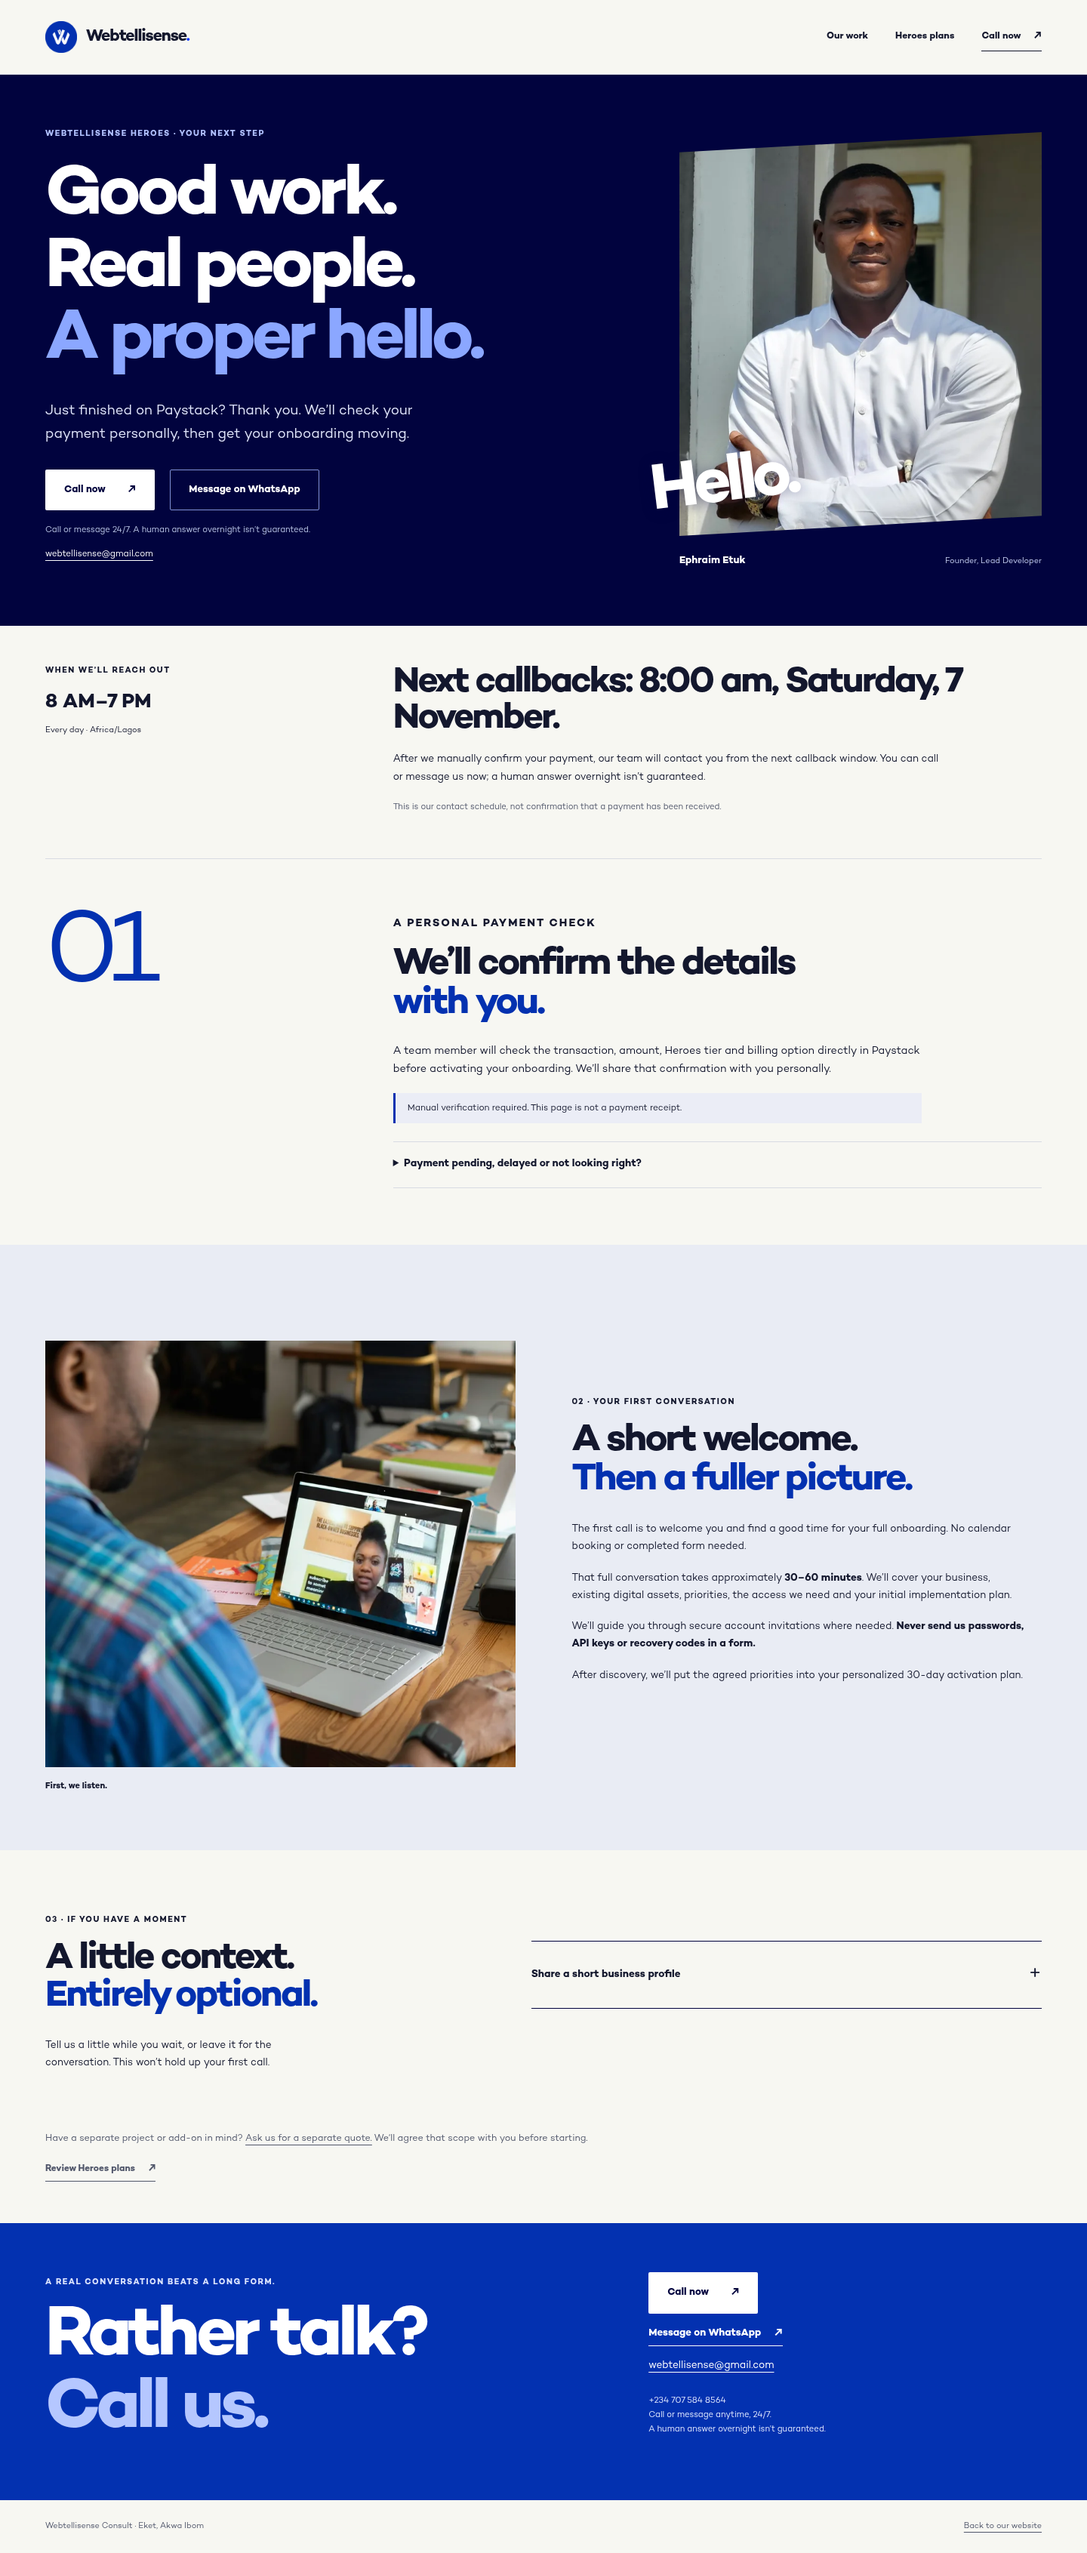
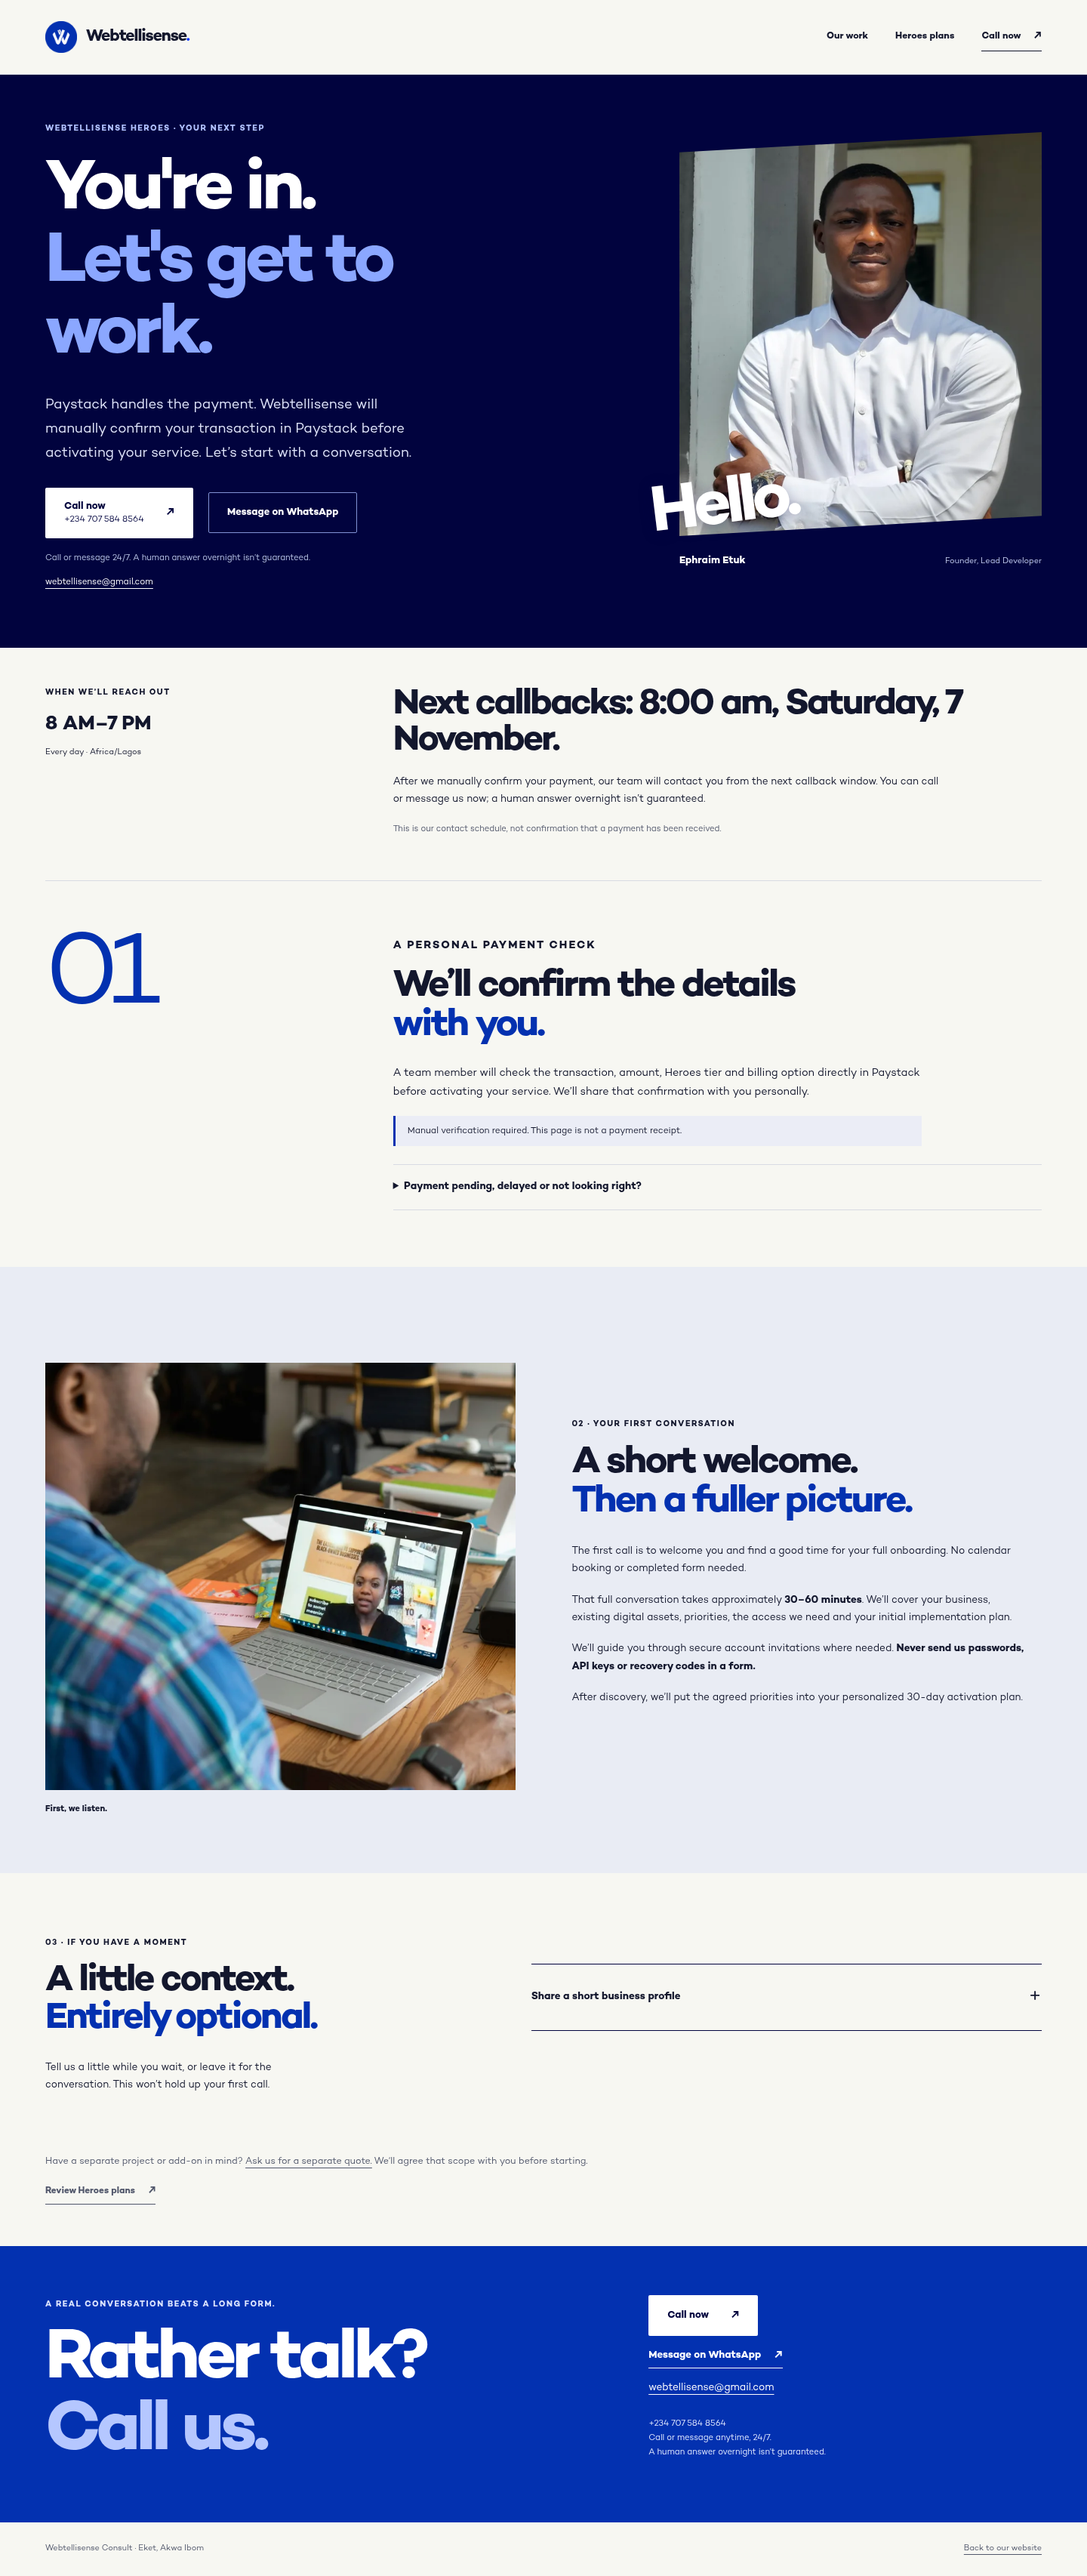
Refine Heroes welcome headline and visible contact details

diff --git a/heroes-welcome.html b/heroes-welcome.html
@@ -44,14 +44,20 @@
         <div class="shell welcome-grid">
           <div class="hero-copy">
             <p class="eyebrow">WEBTELLISENSE HEROES · YOUR NEXT STEP</p>
-            <h1>Good work.<br />Real people.<br /><em>A proper hello.</em></h1>
+            <h1>You're in.<br /><em>Let's get to work.</em></h1>
             <p class="lead">
-              Just finished on Paystack? Thank you. We’ll check your payment
-              personally, then get your onboarding moving.
+              Paystack handles the payment. Webtellisense will manually confirm
+              your transaction in Paystack before activating your service. Let’s
+              start with a conversation.
             </p>
             <div class="action-row">
-              <a class="button button-light" href="tel:+2347075848564"
-                >Call now <span aria-hidden="true">↗</span></a
+              <a
+                class="button button-light welcome-call"
+                href="tel:+2347075848564"
+                ><span class="call-copy"
+                  >Call now<strong>+234 707 584 8564</strong></span
+                >
+                <span aria-hidden="true">↗</span></a
               ><a
                 class="button button-ghost"
                 href="https://wa.me/2347075848564?text=Hi%20Webtellisense%2C%20I%E2%80%99d%20like%20to%20talk%20about%20my%20Heroes%20onboarding."
@@ -117,8 +123,8 @@
           </h2>
           <p>
             A team member will check the transaction, amount, Heroes tier and
-            billing option directly in Paystack before activating your
-            onboarding. We’ll share that confirmation with you personally.
+            billing option directly in Paystack before activating your service.
+            We’ll share that confirmation with you personally.
           </p>
           <p class="payment-state">
             <span aria-hidden="true"></span>Manual verification required. This
@@ -302,7 +308,7 @@
       <a href="index.html">Back to our website</a>
     </footer>
     <div class="mobile-contact" aria-label="Contact Webtellisense anytime">
-      <a href="tel:+2347075848564">Call now</a
+      <a href="tel:+2347075848564">Call now<small>+234 707 584 8564</small></a
       ><a href="https://wa.me/2347075848564">WhatsApp</a>
     </div>
   </body>

diff --git a/assets/css/heroes.css b/assets/css/heroes.css
@@ -1295,3 +1295,42 @@
     margin-top: 25px !important;
   }
 }
+
+/* Welcome contact refinement: keep the number next to its action at every width. */
+.welcome-page .welcome-call .call-copy {
+  line-height: 1.4;
+  text-align: left;
+}
+.welcome-page .welcome-call .call-copy strong {
+  display: block;
+  font-size: 0.72rem;
+  font-weight: 500;
+  white-space: nowrap;
+}
+.welcome-page .mobile-contact small {
+  display: block;
+  font-size: 0.72rem;
+  font-weight: 400;
+  line-height: 1.5;
+}
+@media (max-width: 760px) {
+  .welcome-page .welcome-hero .action-row {
+    display: grid;
+    grid-template-columns: 1fr 1fr;
+    gap: 10px;
+  }
+  .welcome-page .welcome-hero .action-row .button {
+    justify-content: center;
+    min-width: 0;
+    padding: 12px 10px;
+    gap: 6px;
+    min-height: 64px;
+    font-size: 0.7rem;
+  }
+  .welcome-page .welcome-call .call-copy strong {
+    font-size: 0.7rem;
+  }
+  .welcome-page .welcome-call > span[aria-hidden] {
+    display: none;
+  }
+}
